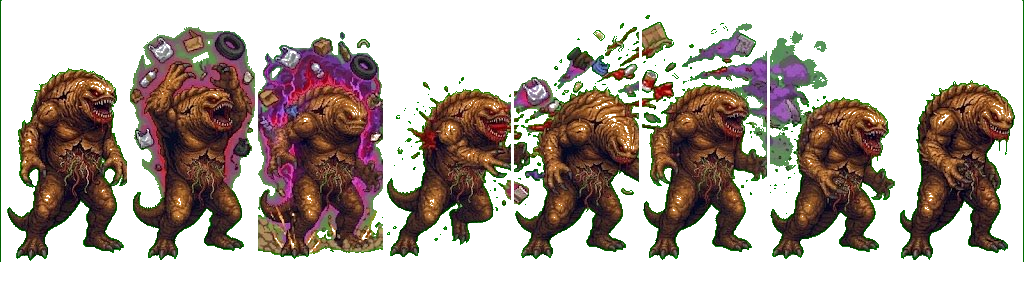
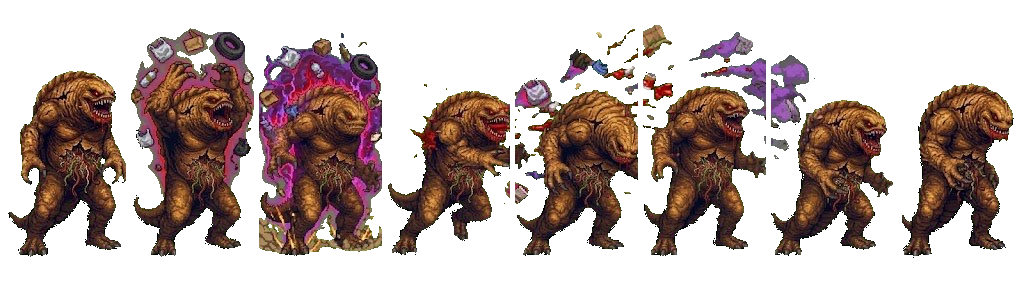
fix(station & monster): despill chroma green halos, scale KRL to grand train size, fix moonwalking walk animation, and layer passing trains behind station

diff --git a/src/components/GameCanvas.tsx b/src/components/GameCanvas.tsx
@@ -3989,21 +3989,21 @@ export const GameCanvas: React.FC<GameCanvasProps> = ({
         krl.frame = krl.animTimer % 180 < 15 ? 2 : 0;
       }
 
-      // Update Background Passing Trains (Kereta Lalu Lalang di Stasiun)
+      // Update Background Passing Trains (Kereta Lalu Lalang di Balik Stasiun)
       if (currentZone === "stasiun_menara" || currentZone === "stasiun_bekasi") {
         passingTrainSpawnTimerRef.current++;
-        if (passingTrainSpawnTimerRef.current > 380 && passingTrainsRef.current.length < 2) {
+        if (passingTrainSpawnTimerRef.current > 320 && passingTrainsRef.current.length < 2) {
           passingTrainSpawnTimerRef.current = 0;
           const goRight = Math.random() < 0.5;
           passingTrainsRef.current.push({
             id: Math.random(),
-            x: goRight ? -500 : WORLD_W + 500,
-            vx: goRight ? 11.5 : -11.5,
-            y: GROUND_Y - 22,
+            x: goRight ? -600 : WORLD_W + 600,
+            vx: goRight ? 13.0 : -13.0,
+            y: GROUND_Y - 72,
             dir: goRight ? "right" : "left",
             frame: 1,
             animTimer: 0,
-            scale: 0.82,
+            scale: 0.72,
           });
         }
         passingTrainsRef.current = passingTrainsRef.current.filter((pt) => {
@@ -4012,19 +4012,19 @@ export const GameCanvas: React.FC<GameCanvasProps> = ({
           if (pt.animTimer % 4 === 0) {
             pt.frame = (pt.frame + 1) % 4;
           }
-          if (Math.random() < 0.25) {
+          if (Math.random() < 0.2) {
             combatParticlesRef.current.push({
-              x: pt.x + (Math.random() - 0.5) * 80,
-              y: pt.y + 12,
-              vx: -pt.vx * 0.12,
-              vy: -Math.random() * 2.2,
+              x: pt.x - cameraXRef.current * 0.35 + (Math.random() - 0.5) * 60,
+              y: GROUND_Y - 55,
+              vx: -pt.vx * 0.08,
+              vy: -Math.random() * 1.8,
               color: Math.random() < 0.5 ? "#38bdf8" : "#facc15",
-              size: 2.2,
-              life: 14,
-              maxLife: 14,
+              size: 2.0,
+              life: 12,
+              maxLife: 12,
             });
           }
-          return pt.x > -700 && pt.x < WORLD_W + 700;
+          return pt.x > -800 && pt.x < WORLD_W + 800;
         });
       }
 
@@ -4685,6 +4685,31 @@ export const GameCanvas: React.FC<GameCanvasProps> = ({
           }
         }
 
+        // 2.5. Kereta Lalu Lalang di Balik Stasiun (Distant Track Behind Pillars & Platform)
+        if (krlTrainImg && passingTrainsRef.current.length > 0) {
+          for (const pt of passingTrainsRef.current) {
+            const trainW = 440 * pt.scale;
+            const trainH = 175 * pt.scale;
+            const trainDrawX = pt.x - camX * 0.35 - trainW / 2;
+            const trainDrawY = GROUND_Y - 72;
+            const fw = 572;
+            const fh = 226;
+            const sy = (pt.frame % 4) * 256;
+
+            ctx.save();
+            ctx.globalAlpha = 0.58;
+            ctx.filter = "brightness(0.65) contrast(1.15)";
+            if (pt.dir === "left") {
+              ctx.translate(trainDrawX + trainW, trainDrawY);
+              ctx.scale(-1, 1);
+              ctx.drawImage(krlTrainImg, 0, sy, fw, fh, 0, 0, trainW, trainH);
+            } else {
+              ctx.drawImage(krlTrainImg, 0, sy, fw, fh, trainDrawX, trainDrawY, trainW, trainH);
+            }
+            ctx.restore();
+          }
+        }
+
         // 3. Platform Ceiling Neon Strip Lights spanning the entire station
         for (let lx = 0; lx < 22; lx++) {
           const lightX = lx * 150 + 50 - camX;
@@ -4836,12 +4861,12 @@ export const GameCanvas: React.FC<GameCanvasProps> = ({
         ctx.fillText("COMMUTER LINE TUJUAN BEKASI (BKS)", signX, 81);
         ctx.restore();
 
-        // 10. Indonesian KRL Commuter Line JR 205 (New 4-Frame Spritesheet)
+        // 10. Indonesian KRL Commuter Line JR 205 (New 4-Frame Spritesheet - Grand Scale)
         if (krlTrainImg) {
-          const trainDrawX = krl.x - camX - 190;
-          const trainDrawY = GROUND_Y + 16 - 146;
-          const trainW = 380;
-          const trainH = 150;
+          const trainW = 580;
+          const trainH = 230;
+          const trainDrawX = krl.x - camX - trainW / 2;
+          const trainDrawY = GROUND_Y + 16 - (trainH - 8);
           const fw = 572;
           const fh = 226;
           const frameIdx = (krl.state === "departing" || krl.state === "arriving")
@@ -4852,50 +4877,26 @@ export const GameCanvas: React.FC<GameCanvasProps> = ({
           ctx.save();
           if (frameIdx === 1) {
             // Glowing cyan spark at pantograph & wheels
-            const glow = ctx.createRadialGradient(trainDrawX + 115, trainDrawY + 15, 5, trainDrawX + 115, trainDrawY + 15, 45);
-            glow.addColorStop(0, "rgba(56, 189, 248, 0.75)");
+            const glow = ctx.createRadialGradient(trainDrawX + 175, trainDrawY + 22, 5, trainDrawX + 175, trainDrawY + 22, 65);
+            glow.addColorStop(0, "rgba(56, 189, 248, 0.85)");
             glow.addColorStop(1, "rgba(0, 0, 0, 0)");
             ctx.fillStyle = glow;
-            ctx.fillRect(trainDrawX + 70, trainDrawY - 10, 90, 60);
+            ctx.fillRect(trainDrawX + 110, trainDrawY - 15, 130, 80);
           }
 
           ctx.drawImage(krlTrainImg, 0, sy, fw, fh, trainDrawX, trainDrawY, trainW, trainH);
 
           // LED Destination Board
           ctx.fillStyle = "#1e3a8a";
-          ctx.fillRect(trainDrawX + 130, trainDrawY + 14, 120, 14);
+          ctx.fillRect(trainDrawX + 195, trainDrawY + 22, 190, 20);
           ctx.strokeStyle = "#facc15";
           ctx.lineWidth = 1;
-          ctx.strokeRect(trainDrawX + 130, trainDrawY + 14, 120, 14);
-          ctx.font = "bold 8px 'Courier New', monospace";
+          ctx.strokeRect(trainDrawX + 195, trainDrawY + 22, 190, 20);
+          ctx.font = "bold 9px 'Courier New', monospace";
           ctx.fillStyle = "#facc15";
           ctx.textAlign = "center";
-          ctx.fillText("KRL • COMMUTER LINE BEKASI", trainDrawX + 190, trainDrawY + 24);
+          ctx.fillText("KRL • COMMUTER LINE BEKASI", trainDrawX + 290, trainDrawY + 36);
           ctx.restore();
-        }
-
-        // Background Passing Trains (Kereta Lalu Lalang di Peron Belakang)
-        if (krlTrainImg && passingTrainsRef.current.length > 0) {
-          for (const pt of passingTrainsRef.current) {
-            const trainDrawX = pt.x - camX - 145;
-            const trainDrawY = GROUND_Y - 45;
-            const trainW = 310 * pt.scale;
-            const trainH = 122 * pt.scale;
-            const fw = 572;
-            const fh = 226;
-            const sy = (pt.frame % 4) * 256;
-
-            ctx.save();
-            ctx.globalAlpha = 0.85;
-            if (pt.dir === "left") {
-              ctx.translate(trainDrawX + trainW, trainDrawY);
-              ctx.scale(-1, 1);
-              ctx.drawImage(krlTrainImg, 0, sy, fw, fh, 0, 0, trainW, trainH);
-            } else {
-              ctx.drawImage(krlTrainImg, 0, sy, fw, fh, trainDrawX, trainDrawY, trainW, trainH);
-            }
-            ctx.restore();
-          }
         }
 
         // 11. Dark Subway Tunnel Arch to the right (Tracks heading into darkness)
@@ -4930,6 +4931,31 @@ export const GameCanvas: React.FC<GameCanvasProps> = ({
             if (stOffX + stW > -50 && stOffX < CANVAS_W + 50) {
               ctx.drawImage(stasiunBekasiImg, 0, 0, 1376, 768, stOffX, 0, stW, stH);
             }
+          }
+        }
+
+        // 2.5. Kereta Lalu Lalang di Balik Stasiun Bekasi (Distant Through-Track Behind Trusses & Platform)
+        if (krlTrainImg && passingTrainsRef.current.length > 0) {
+          for (const pt of passingTrainsRef.current) {
+            const trainW = 440 * pt.scale;
+            const trainH = 175 * pt.scale;
+            const trainDrawX = pt.x - camX * 0.35 - trainW / 2;
+            const trainDrawY = GROUND_Y - 72;
+            const fw = 572;
+            const fh = 226;
+            const sy = (pt.frame % 4) * 256;
+
+            ctx.save();
+            ctx.globalAlpha = 0.58;
+            ctx.filter = "brightness(0.68) contrast(1.15)";
+            if (pt.dir === "left") {
+              ctx.translate(trainDrawX + trainW, trainDrawY);
+              ctx.scale(-1, 1);
+              ctx.drawImage(krlTrainImg, 0, sy, fw, fh, 0, 0, trainW, trainH);
+            } else {
+              ctx.drawImage(krlTrainImg, 0, sy, fw, fh, trainDrawX, trainDrawY, trainW, trainH);
+            }
+            ctx.restore();
           }
         }
 
@@ -4992,36 +5018,12 @@ export const GameCanvas: React.FC<GameCanvasProps> = ({
         }
         ctx.restore();
 
-        // Background Passing Trains in Bekasi Station (Kereta Lalu Lalang di Peron Belakang)
-        if (krlTrainImg && passingTrainsRef.current.length > 0) {
-          for (const pt of passingTrainsRef.current) {
-            const trainDrawX = pt.x - camX - 145;
-            const trainDrawY = GROUND_Y - 45;
-            const trainW = 310 * pt.scale;
-            const trainH = 122 * pt.scale;
-            const fw = 572;
-            const fh = 226;
-            const sy = (pt.frame % 4) * 256;
-
-            ctx.save();
-            ctx.globalAlpha = 0.85;
-            if (pt.dir === "left") {
-              ctx.translate(trainDrawX + trainW, trainDrawY);
-              ctx.scale(-1, 1);
-              ctx.drawImage(krlTrainImg, 0, sy, fw, fh, 0, 0, trainW, trainH);
-            } else {
-              ctx.drawImage(krlTrainImg, 0, sy, fw, fh, trainDrawX, trainDrawY, trainW, trainH);
-            }
-            ctx.restore();
-          }
-        }
-
-        // 5. Indonesian KRL Commuter Line JR 205 on Bekasi Tracks (at x = 550)
+        // 5. Indonesian KRL Commuter Line JR 205 on Bekasi Tracks (at x = 550 - Grand Scale)
         if (krlTrainImg) {
-          const trainDrawX = krl.x - camX - 190;
-          const trainDrawY = GROUND_Y + 16 - 146;
-          const trainW = 380;
-          const trainH = 150;
+          const trainW = 580;
+          const trainH = 230;
+          const trainDrawX = krl.x - camX - trainW / 2;
+          const trainDrawY = GROUND_Y + 16 - (trainH - 8);
           const fw = 572;
           const fh = 226;
           const frameIdx = (krl.state === "departing" || krl.state === "arriving")
@@ -5031,25 +5033,25 @@ export const GameCanvas: React.FC<GameCanvasProps> = ({
 
           ctx.save();
           if (frameIdx === 1) {
-            const glow = ctx.createRadialGradient(trainDrawX + 115, trainDrawY + 15, 5, trainDrawX + 115, trainDrawY + 15, 45);
-            glow.addColorStop(0, "rgba(56, 189, 248, 0.75)");
+            const glow = ctx.createRadialGradient(trainDrawX + 175, trainDrawY + 22, 5, trainDrawX + 175, trainDrawY + 22, 65);
+            glow.addColorStop(0, "rgba(56, 189, 248, 0.85)");
             glow.addColorStop(1, "rgba(0, 0, 0, 0)");
             ctx.fillStyle = glow;
-            ctx.fillRect(trainDrawX + 70, trainDrawY - 10, 90, 60);
+            ctx.fillRect(trainDrawX + 110, trainDrawY - 15, 130, 80);
           }
 
           ctx.drawImage(krlTrainImg, 0, sy, fw, fh, trainDrawX, trainDrawY, trainW, trainH);
 
           // LED Destination Board
           ctx.fillStyle = "#1e3a8a";
-          ctx.fillRect(trainDrawX + 130, trainDrawY + 14, 120, 14);
+          ctx.fillRect(trainDrawX + 195, trainDrawY + 22, 190, 20);
           ctx.strokeStyle = "#facc15";
           ctx.lineWidth = 1;
-          ctx.strokeRect(trainDrawX + 130, trainDrawY + 14, 120, 14);
-          ctx.font = "bold 8px 'Courier New', monospace";
+          ctx.strokeRect(trainDrawX + 195, trainDrawY + 22, 190, 20);
+          ctx.font = "bold 9px 'Courier New', monospace";
           ctx.fillStyle = "#facc15";
           ctx.textAlign = "center";
-          ctx.fillText("KRL • MENUJU KAMPUNG MENARA", trainDrawX + 190, trainDrawY + 24);
+          ctx.fillText("KRL • MENUJU KAMPUNG MENARA", trainDrawX + 290, trainDrawY + 36);
           ctx.restore();
         }
 
@@ -5156,12 +5158,12 @@ export const GameCanvas: React.FC<GameCanvasProps> = ({
 
           if (mImg) {
             const frameW = 128;
-            const frameH = 262;
+            const frameH = 260;
             const frameIdx = stMonster.isEmerging ? Math.min(7, stMonster.emergeFrame) : (stMonster.animFrame % 8);
             const sx = frameIdx * frameW;
 
-            const drawW = 145;
-            const drawH = 158;
+            const drawW = 160;
+            const drawH = 175;
             const drawX = stMonster.x - camX - drawW / 2 + (stMonster.shake > 0 ? (Math.random() - 0.5) * stMonster.shake : 0);
             const drawY = GROUND_Y + 16 - drawH + 4;
 
@@ -5180,7 +5182,9 @@ export const GameCanvas: React.FC<GameCanvasProps> = ({
               ctx.fillRect(drawX - 30, drawY - 30, drawW + 60, drawH + 60);
             }
 
-            if (!stMonster.facingLeft) {
+            // The raw sprite naturally faces RIGHT!
+            // When moving/facing left (stMonster.facingLeft = true), flip it so it walks and attacks forward!
+            if (stMonster.facingLeft) {
               ctx.translate(drawX + drawW, drawY);
               ctx.scale(-1, 1);
               ctx.drawImage(mImg, sx, 0, frameW, frameH, 0, 0, drawW, drawH);
